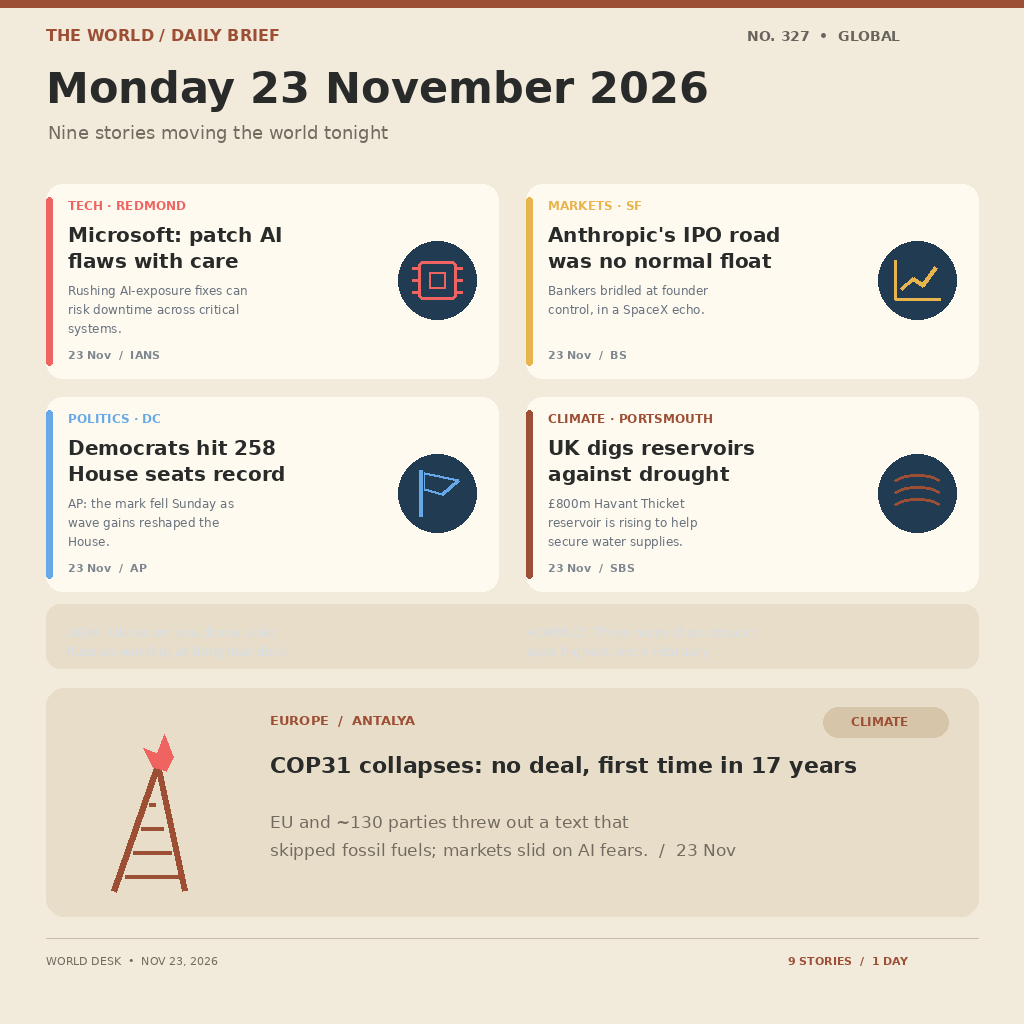
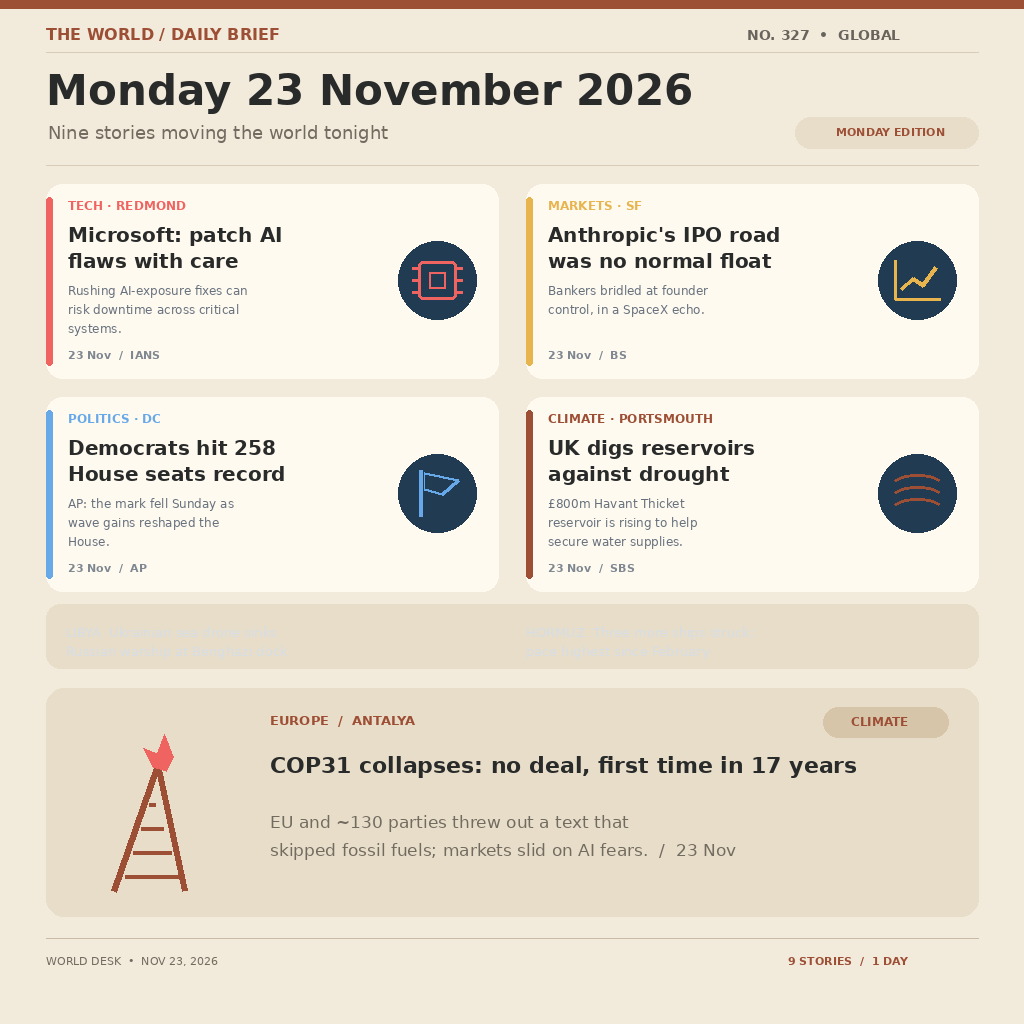
news r8: re-authored drawing code

diff --git a/main.py b/main.py
@@ -8,12 +8,20 @@ except Exception:
     shutil.copyfile(os.path.join(os.environ.get("MAKEFUN_BOT_DIR", "/bot"), "entry.png"), _out)
     sys.exit(0)
 
-W = H = 1024
-NAVY = "#f2eadb"
-TEAL = "#9d4f35"
-CREAM = "#fffaf0"
-GRAY = "#726b60"
-INK = "#292b2b"
+ # Warm paper, rust accents, and dark ink set the page's visual palette.
+CANVAS_WIDTH = CANVAS_HEIGHT = 1024
+PAPER_TONE = "#f2eadb"
+RUST_ACCENT = "#9d4f35"
+CARD_TONE = "#fffaf0"
+MUTED_INK = "#726b60"
+PRIMARY_INK = "#292b2b"
+BADGE_BLUE = "#203b52"
+BAR_TONE = "#e8ddc9"
+BAR_INK = "#68645d"
+
+# Keep the compact drawing helpers readable below.
+W, H = CANVAS_WIDTH, CANVAS_HEIGHT
+NAVY, TEAL, CREAM, GRAY, INK = PAPER_TONE, RUST_ACCENT, CARD_TONE, MUTED_INK, PRIMARY_INK
 OUT = os.path.join(os.environ.get("MAKEFUN_OUTPUT_DIR", "/output"), "entry.png")
 
 im = Image.new("RGB", (W, H), NAVY)
@@ -51,12 +59,27 @@ def badge(cx, cy, kind, color):
         for off in (-10, 2, 14):
             d.arc((cx-24, cy+off-9, cx+24, cy+off+9), 200, 340, fill=color, width=3)
 
-# A restrained vermilion edge anchors the paper-like page.
-d.rectangle((0, 0, W, 7), fill=TEAL)
-text(46, 26, "THE WORLD / DAILY BRIEF", 16, TEAL, True)
-text(747, 28, "NO. 327  •  GLOBAL", 14, "#68645d", True)
-text(46, 63, "Monday 23 November 2026", 43, INK, True)
-text(48, 122, "Nine stories moving the world tonight", 18, GRAY)
+# Masthead: a narrow rust line gives the paper a clear top edge.
+d.rectangle((0, 0, CANVAS_WIDTH, 8), fill=RUST_ACCENT)
+
+# The desk name and edition number sit on a shared baseline.
+masthead_y = 25
+text(46, masthead_y, "THE WORLD / DAILY BRIEF", 16, RUST_ACCENT, True)
+text(747, masthead_y + 2, "NO. 327  •  GLOBAL", 14, BAR_INK, True)
+d.line((46, 52, 978, 52), fill="#d8cbb7", width=1)
+
+# Today's date carries the page's strongest type weight.
+date_label = "Monday 23 November 2026"
+text(46, 66, date_label, 42, PRIMARY_INK, True)
+
+# Pair the short deck with a small edition marker at the right edge.
+deck_y = 122
+text(48, deck_y, "Nine stories moving the world tonight", 18, MUTED_INK)
+d.rounded_rectangle((795, 117, 978, 148), radius=15, fill=BAR_TONE)
+text(836, 125, "MONDAY EDITION", 11, RUST_ACCENT, True)
+
+# A quiet lower rule separates the heading from the story cards.
+d.line((46, 165, 978, 165), fill="#d8cbb7", width=1)
 
 cards = [
     (46, 184, "#ef6461", "TECH · REDMOND", ["Microsoft: patch AI", "flaws with care"], ["Rushing AI-exposure fixes can", "risk downtime across critical", "systems."], "23 Nov  /  IANS", "chip"),
@@ -94,16 +117,22 @@ text(851, 714, "CLIMATE", 12, TEAL, True)
 text(270, 752, "COP31 collapses: no deal, first time in 17 years", 22, INK, True)
 text(270, 812, "EU and ~130 parties threw out a text that", 17, GRAY)
 text(270, 840, "skipped fossil fuels; markets slid on AI fears.  /  23 Nov", 17, GRAY)
-# A ladder beside a small flame marks the summit story.
-d.line((114, 891, 158, 765), fill=TEAL, width=6)
-d.line((185, 891, 158, 765), fill=TEAL, width=6)
-for yy in (876, 852, 828, 804):
-    d.line((125+(876-yy)//3, yy, 179-(876-yy)//3, yy), fill=TEAL, width=4)
-d.polygon(((153,767),(143,748),(157,753),(164,734),(173,757),(166,771)), fill="#ef6461")
+# Summit emblem: an ascending frame topped by a compact flame.
+left_rail = (114, 891, 158, 765)
+right_rail = (185, 891, 158, 765)
+d.line(left_rail, fill=RUST_ACCENT, width=6)
+d.line(right_rail, fill=RUST_ACCENT, width=6)
+for rung_y in (876, 852, 828, 804):
+    inset = (876 - rung_y) // 3
+    d.line((125 + inset, rung_y, 179 - inset, rung_y), fill=RUST_ACCENT, width=4)
+flame_shape = ((153, 767), (143, 748), (157, 753), (164, 734), (173, 757), (166, 771))
+d.polygon(flame_shape, fill="#ef6461")
 
-d.line((46, 938, 978, 938), fill="#c9bba5", width=1)
-text(46, 954, "WORLD DESK  •  NOV 23, 2026", 11, GRAY)
-text(788, 954, "9 STORIES  /  1 DAY", 11, TEAL, True)
+# Footer rule and desk label close the page beneath the lead panel.
+footer_y = 938
+d.line((46, footer_y, 978, footer_y), fill="#c9bba5", width=1)
+text(46, footer_y + 16, "WORLD DESK  •  NOV 23, 2026", 11, MUTED_INK)
+text(788, footer_y + 16, "9 STORIES  /  1 DAY", 11, RUST_ACCENT, True)
 os.makedirs(os.path.dirname(OUT) or ".", exist_ok=True)
 im.save(OUT)
 print(f"wrote {OUT}")
